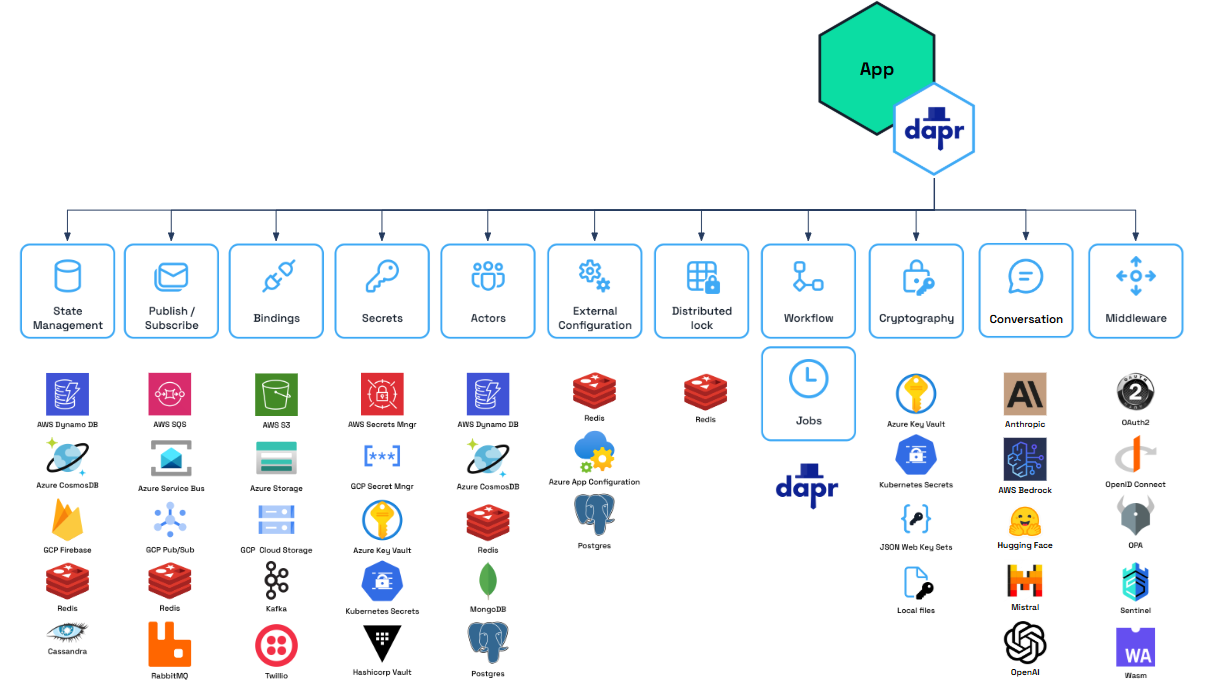
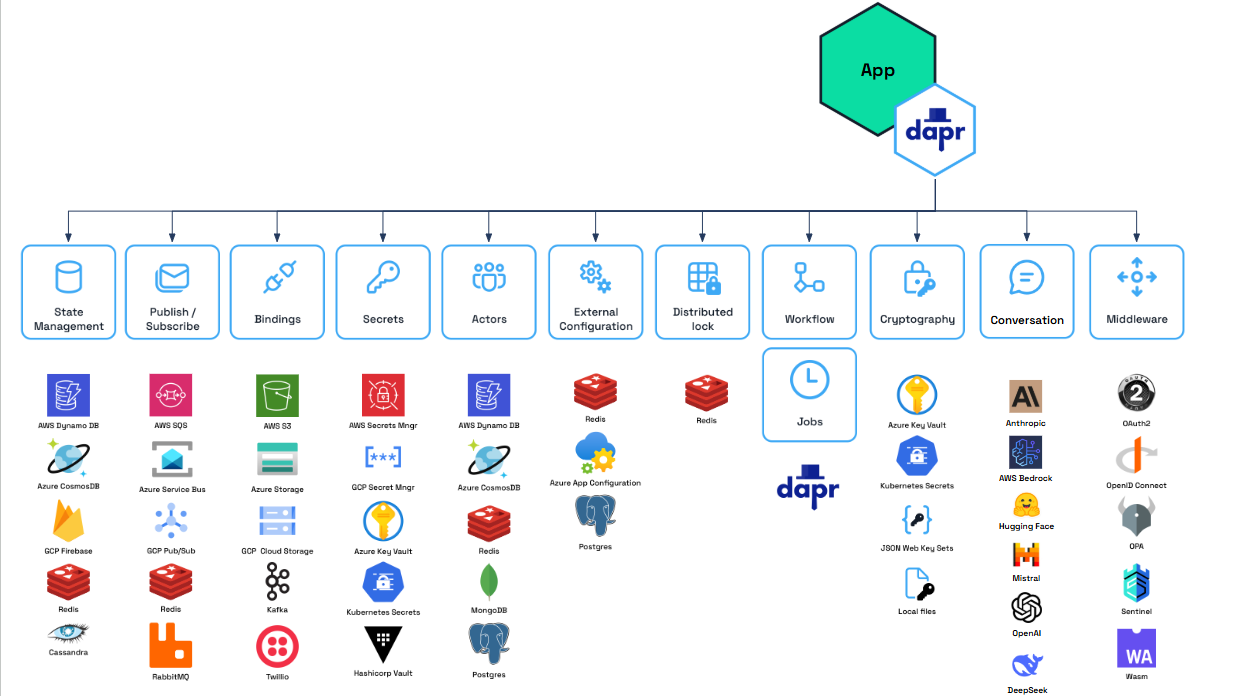
add component reference, update quickstarts per alice and mark review, update how-to, update diagrams with deepseek

Changed region(s): [[0.0, 0.0, 0.9801, 1.0], [0.0306, 0.5189, 0.3369, 1.0], [0.3675, 0.5189, 0.5207, 1.0]]

diff --git a/daprdocs/content/en/getting-started/quickstarts/conversation-quickstart.md b/daprdocs/content/en/getting-started/quickstarts/conversation-quickstart.md
@@ -10,7 +10,7 @@ description: Get started with the Dapr conversation building block
 The conversation building block is currently in **alpha**. 
 {{% /alert %}}
 
-Let's take a look at how the [Dapr conversation building block]({{< ref conversation-overview.md >}}) makes interacting with the LLM component easier. In this quickstart, you use the echo component to communicate with the LLM and ask it for a poem about Dapr. 
+Let's take a look at how the [Dapr conversation building block]({{< ref conversation-overview.md >}}) makes interacting with Large Language Models (LLMs) easier. In this quickstart, you use the echo component to communicate with the mock LLM and ask it for a poem about Dapr. 
 
 You can try out this conversation quickstart by either:
 
@@ -31,7 +31,7 @@ You can try out this conversation quickstart by either:
 For this example, you will need:
 
 - [Dapr CLI and initialized environment](https://docs.dapr.io/getting-started).
-- [.NET SDK or .NET 6 SDK installed](https://dotnet.microsoft.com/download).
+- [.NET 8 SDK+ installed](https://dotnet.microsoft.com/download).
 <!-- IGNORE_LINKS -->
 - [Docker Desktop](https://www.docker.com/products/docker-desktop)
 <!-- END_IGNORE -->
@@ -67,9 +67,7 @@ dapr run -f .
 
 ### What happened?
 
-When you ran `dapr init` during Dapr install, the following YAML files were generated in the `.dapr/components` directory: 
-- [`dapr.yaml` Multi-App Run template file]({{< ref "#dapryaml-multi-app-run-template-file" >}})
-- [`pubsub.yaml` component file]({{< ref "#pubsubyaml-component-file" >}})
+When you ran `dapr init` during Dapr install, the [`dapr.yaml` Multi-App Run template file]({{< ref "#dapryaml-multi-app-run-template-file" >}}) was generated in the `.dapr/components` directory.
 
 Running `dapr run -f .` in this Quickstart started the [conversation Program.cs]({{< ref "#programcs-conversation-app" >}}).
 
@@ -88,7 +86,7 @@ apps:
     command: ["dotnet", "run"]
 ```
 
-#### `conversation.yaml` LLM component
+#### Echo mock LLM component
 
 In [`conversation/components`](https://github.com/dapr/quickstarts/tree/master/conversation/components), the [`conversation.yaml` file](https://github.com/dapr/quickstarts/tree/master/conversation/components/conversation.yml) configures the echo mock LLM component. 
 
@@ -101,6 +99,8 @@ spec:
   type: conversation.echo
   version: v1
 ```
+
+To interface with a real LLM, swap out the mock component with one of [the supported conversation components]({{< ref "supported-conversation" >}}). For example, to use an OpenAI component, see the [example in the conversation how-to guide]({{< ref "howto-conversation-layer.md#use-the-openai-component" >}})
 
 #### `Program.cs` conversation app
 
@@ -197,9 +197,7 @@ dapr run -f .
 
 ### What happened?
 
-When you ran `dapr init` during Dapr install, the following YAML files were generated in the `.dapr/components` directory: 
-- [`dapr.yaml` Multi-App Run template file]({{< ref "#dapryaml-multi-app-run-template-file" >}})
-- [`pubsub.yaml` component file]({{< ref "#pubsubyaml-component-file" >}})
+When you ran `dapr init` during Dapr install, the [`dapr.yaml` Multi-App Run template file]({{< ref "#dapryaml-multi-app-run-template-file" >}}) was generated in the `.dapr/components` directory. 
 
 Running `dapr run -f .` in this Quickstart started [conversation.go]({{< ref "#programcs-conversation-app" >}}).
 
@@ -218,7 +216,7 @@ apps:
     command: ["go", "run", "."]
 ```
 
-#### `conversation.yaml` LLM component
+#### Echo mock LLM component
 
 In [`conversation/components`](https://github.com/dapr/quickstarts/tree/master/conversation/components) directly of the quickstart, the [`conversation.yaml` file](https://github.com/dapr/quickstarts/tree/master/conversation/components/conversation.yml) configures the echo LLM component. 
 
@@ -232,7 +230,7 @@ spec:
   version: v1
 ```
 
-For authentication, the component also uses a secret store called [`envvar-secrets`](https://github.com/dapr/quickstarts/tree/master/conversation/components/envvar.yml). 
+To interface with a real LLM, swap out the mock component with one of [the supported conversation components]({{< ref "supported-conversation" >}}). For example, to use an OpenAI component, see the [example in the conversation how-to guide]({{< ref "howto-conversation-layer.md#use-the-openai-component" >}})
 
 #### `conversation.go` conversation app
 
@@ -295,7 +293,7 @@ func main() {
 For this example, you will need:
 
 - [Dapr CLI and initialized environment](https://docs.dapr.io/getting-started).
-- [.NET SDK or .NET 6 SDK installed](https://dotnet.microsoft.com/download).
+- [.NET 8+ SDK installed](https://dotnet.microsoft.com/download).
 <!-- IGNORE_LINKS -->
 - [Docker Desktop](https://www.docker.com/products/docker-desktop)
 <!-- END_IGNORE -->

diff --git a/daprdocs/content/en/reference/components-reference/supported-conversation/deepseek.md b/daprdocs/content/en/reference/components-reference/supported-conversation/deepseek.md
@@ -1,0 +1,39 @@
+---
+type: docs
+title: "DeepSeek"
+linkTitle: "DeepSeek"
+description: Detailed information on the DeepSeek conversation component
+---
+
+## Component format
+
+A Dapr `conversation.yaml` component file has the following structure:
+
+```yaml
+apiVersion: dapr.io/v1alpha1
+kind: Component
+metadata:
+  name: deepseek
+spec:
+  type: conversation.deepseek
+  metadata:
+  - name: key
+    value: mykey
+  - name: maxTokens
+    value: 2048
+```
+
+{{% alert title="Warning" color="warning" %}}
+The above example uses secrets as plain strings. It is recommended to use a secret store for the secrets, as described [here]({{< ref component-secrets.md >}}).
+{{% /alert %}}
+
+## Spec metadata fields
+
+| Field              | Required | Details | Example |
+|--------------------|:--------:|---------|---------|
+| `key`   | Y | API key for DeepSeek. | `mykey` |
+| `maxToken` | N | The max amount of tokens for each request.  | `2048` |
+
+## Related links
+
+- [Conversation API overview]({{< ref conversation-overview.md >}})

diff --git a/daprdocs/content/en/developing-applications/building-blocks/conversation/howto-conversation-layer.md b/daprdocs/content/en/developing-applications/building-blocks/conversation/howto-conversation-layer.md
@@ -34,6 +34,28 @@ spec:
   version: v1
 ```
 
+### Use the OpenAI component
+
+To interface with a real LLM, use one of the other [supported conversation components]({{< ref "supported-conversation" >}}), including OpenAI, Hugging Face, Anthropic, DeepSeek, and more.
+
+For example, to swap out the `echo` mock component with an `OpenAI` component, replace the `conversation.yaml` file with the following. You'll need to copy your API key into the component file.
+
+```
+apiVersion: dapr.io/v1alpha1
+kind: Component
+metadata:
+  name: openai
+spec:
+  type: conversation.openai
+  metadata:
+  - name: key
+    value: <REPLACE_WITH_YOUR_KEY>
+  - name: model
+    value: gpt-4-turbo
+  - name: cacheTTL
+    value: 10m
+```
+
 ## Connect the conversation client
 
 The following examples use an HTTP client to send a POST request to Dapr's sidecar HTTP endpoint. You can also use [the Dapr SDK client instead]({{< ref "#related-links" >}}).
